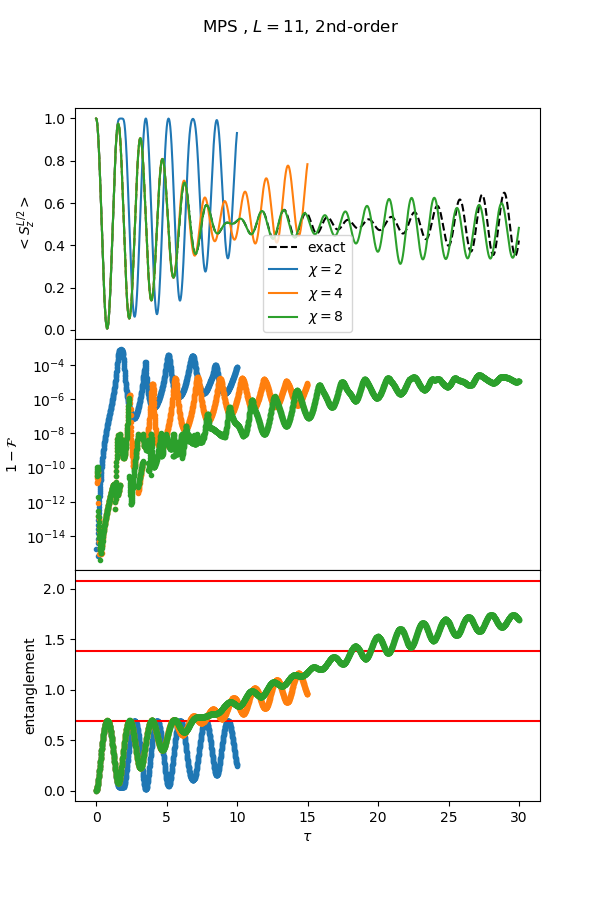
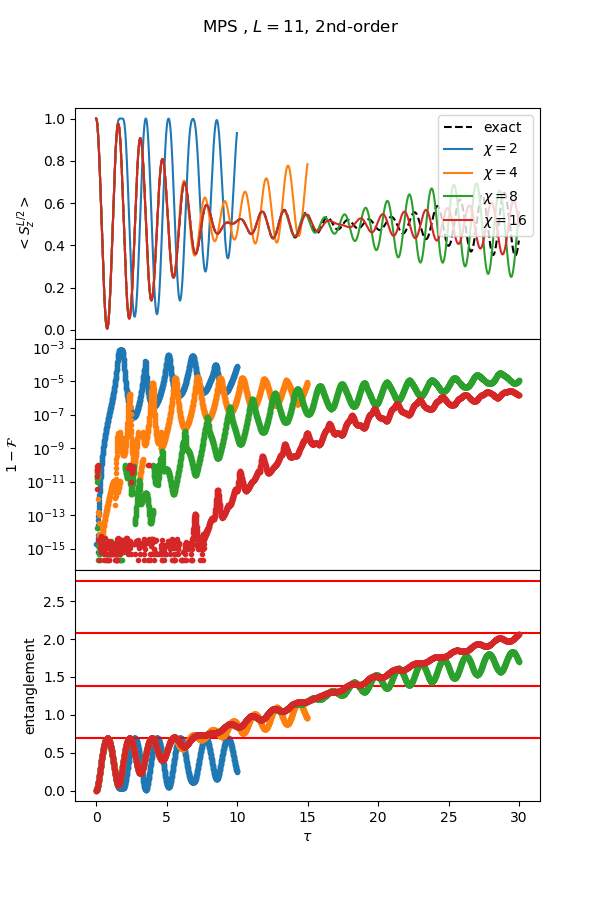
fix mps bond dimension to growing w/o truncation

diff --git a/qTEBD.py b/qTEBD.py
@@ -394,7 +394,7 @@ def expectation_values(A_list, H_list, check_norm=True):
 
     return E_list
 
-def right_canonicalize(A_list):
+def right_canonicalize(A_list, no_trunc=False):
     '''
     Bring mps in right canonical form, assuming the input mps is in
     left canonical form already.
@@ -405,7 +405,10 @@ def right_canonicalize(A_list):
         X, Y, Z = np.linalg.svd(np.reshape(np.transpose(A_list[i], [1, 0, 2]), [chi1, d1 * chi2]),
                                 full_matrices=0)
 
-        chi1 = np.sum(Y>10.**(-15))
+        if no_trunc:
+            chi1 = np.size(Y)
+        else:
+            chi1 = np.sum(Y>10.**(-15))
 
         arg_sorted_idx = (np.argsort(Y)[::-1])[:chi1]
         Y = Y[arg_sorted_idx]
@@ -419,7 +422,7 @@ def right_canonicalize(A_list):
 
     return A_list
 
-def left_canonicalize(A_list):
+def left_canonicalize(A_list, no_trunc=False):
     '''
     Bring mps in left canonical form, assuming the input mps is in
     right canonical form already.
@@ -430,7 +433,10 @@ def left_canonicalize(A_list):
         X, Y, Z = np.linalg.svd(np.reshape(A_list[i], [d1 * chi1, chi2]),
                                 full_matrices=0)
 
-        chi2 = np.sum(Y>10.**(-15))
+        if no_trunc:
+            chi2 = np.size(Y)
+        else:
+            chi2 = np.sum(Y>10.**(-15))
 
         arg_sorted_idx = (np.argsort(Y)[::-1])[:chi2]
         Y = Y[arg_sorted_idx]
@@ -478,7 +484,7 @@ def get_entanglement(A_list):
 
     return ent_list
 
-def apply_U_all(A_list, U_list, cache=False):
+def apply_U_all(A_list, U_list, cache=False, no_trunc=False):
     '''
     if cache is True, we will return a list_A_list,
     which gives the list of mps of length L, which corresponds to
@@ -499,7 +505,11 @@ def apply_U_all(A_list, U_list, cache=False):
         theta = np.reshape(np.transpose(theta,(0,2,1,3)),(d1*chi1, d2*chi3))
 
         X, Y, Z = np.linalg.svd(theta, full_matrices=0)
-        chi2 = np.sum(Y>10.**(-15))
+
+        if no_trunc:
+            chi2 = np.size(Y)
+        else:
+            chi2 = np.sum(Y>10.**(-15))
 
         # piv = np.zeros(len(Y), onp.bool)
         # piv[(np.argsort(Y)[::-1])[:chi2]] = True

diff --git a/run_te_qtebd_mps.py b/run_te_qtebd_mps.py
@@ -39,12 +39,12 @@ if __name__ == "__main__":
     ## [TODO] add check whether data already
 
     J = 1.
-    tol = 1e-8
-    cov_crit = 1e-9
+    tol = 1e-10
+    cov_crit = tol * 0.1
     max_N_iter = 100
     N_iter = 10
     dt = 0.01
-    total_t = 10
+    total_t = 30
     Sz_list = [np.array([[1, 0.], [0., -1.]]) for i in range(L)]
     H_list =  qTEBD.get_H(L, J, g, Hamiltonian)
     A_list = [np.array([1., 0.]).reshape([2, 1, 1]) for i in range(L)]
@@ -62,9 +62,9 @@ if __name__ == "__main__":
 
     exact_steps = int(np.log2(chi))
     for idx in range(exact_steps):
-        A_list = qTEBD.right_canonicalize(A_list)
-        A_list = qTEBD.apply_U_all(A_list,  U_list, 0)
-        A_list = qTEBD.left_canonicalize(A_list)
+        A_list = qTEBD.right_canonicalize(A_list, no_trunc=True)
+        A_list = qTEBD.apply_U_all(A_list,  U_list, 0, no_trunc=True)
+        A_list = qTEBD.left_canonicalize(A_list, no_trunc=True)
 
         ## [ToDo] here assume no truncation
         fidelity_reached = 1.
@@ -77,9 +77,10 @@ if __name__ == "__main__":
         t_list.append(t_list[-1]+dt)
 
         print("T=", t_list[-1], " E=", E_list[-1], " Sz=", Sz_array[idx, L//2])
+        print("current chi : ", A_list[L//2].shape[1])
 
     for idx in range(1+exact_steps, int(total_t//dt) + 1):
-        if fidelity_reached < 1. - 1e-6 and A_list[L//2].shape[1] < chi:
+        if fidelity_reached < 1. - 1e-12 and A_list[L//2].shape[1] < chi:
             ### AAAAA form
             A_list = qTEBD.right_canonicalize(A_list)
             ### BBBBB form

diff --git a/plot_te_mps.py b/plot_te_mps.py
@@ -23,7 +23,7 @@ if __name__ == '__main__':
     plt.setp(ax1.get_xticklabels(), fontsize=6)
     plt.ylabel('$< S_z^{L/2} >$')
 
-    for chi in [2, 4, 8]:
+    for chi in [2, 4, 8, 16]:
         dir_path = 'data_te/1d_%s_g%.1f/L%d/' % (Hamiltonian, g, L)
 
         filename = 'mps_chi%d_%s_energy.npy' % (chi, order)
